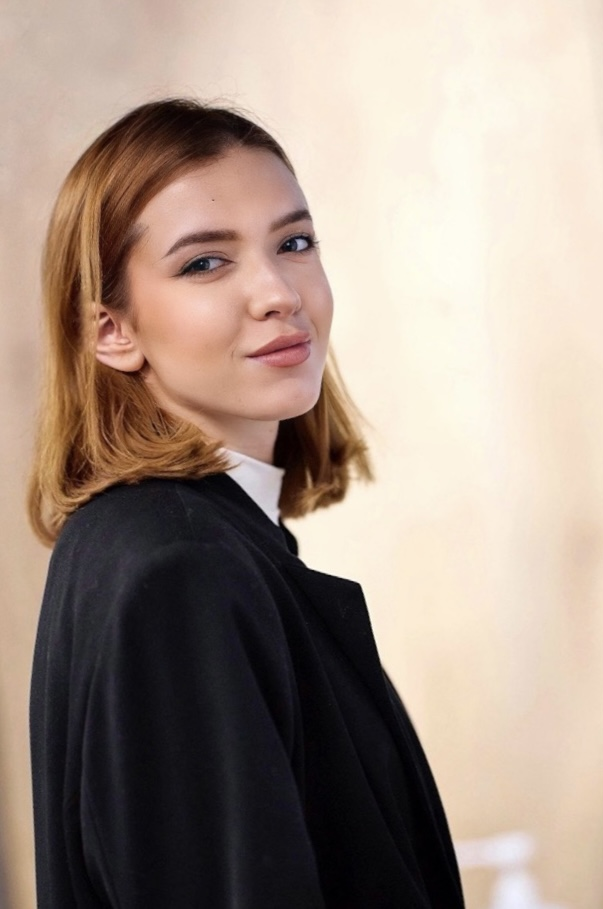
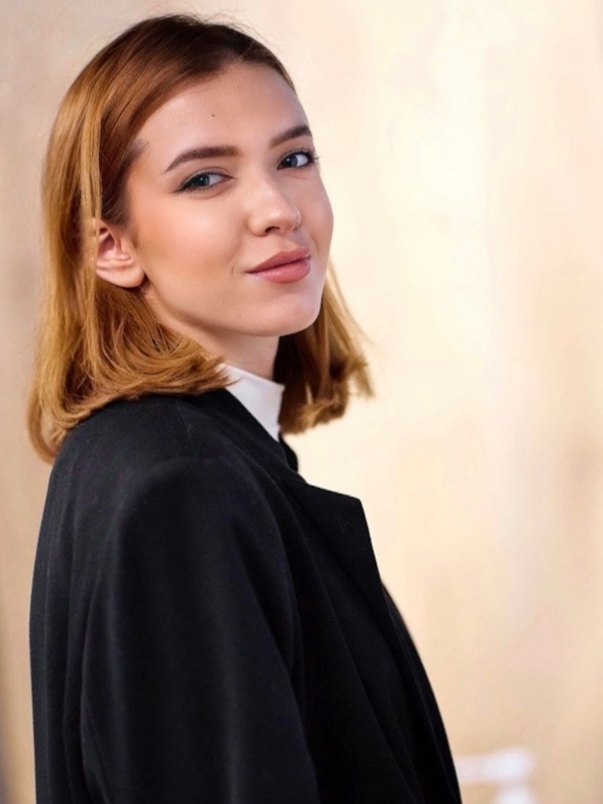
sadfdbgfredfsdgbfrfegf f

diff --git a/src/components/main/MainPage/Team/team.module.scss b/src/components/main/MainPage/Team/team.module.scss
@@ -52,9 +52,18 @@ $text-color: #0C0C0C;
 
         &__card {
             background-color: $card-bg-color;
-            padding: 24px;
+            padding: 24px 0;
             line-height: 150%;
-            flex: 0 0 32%;
+            flex: 0 0 31%;
+
+            &__container{
+                padding: 0 12px;
+                width: 85%;
+                margin: 0 auto;
+                display: flex;
+                justify-content: space-between;
+                align-items: flex-end;
+            }
 
             &__header {
                 display: flex;
@@ -70,6 +79,7 @@ $text-color: #0C0C0C;
                 &__speciality {
                     font-size: 0.8em;
                     text-align: right;
+                    width: 50%;
                 }
             }
 
@@ -81,17 +91,15 @@ $text-color: #0C0C0C;
                 justify-content: center;
 
                 &__photo {
+                    height: 350px;
+                    width: 100%;
                     display: flex;
                     justify-content: center;
                     align-items: center;
-                    height: 390px;
-                    width: 100%;
-
+                    
                     img {
-                        max-width: 75%;
-                        height: 90%;
-                        object-fit: cover;
-                        object-position: top center;
+                        max-width: 100%;
+                        height: 100%;
                     }
                 }
             }
@@ -112,6 +120,29 @@ $text-color: #0C0C0C;
     }
 }
 
+@media screen and (max-width: 1250.01px) {
+    .team {
+        &__carousel {
+            &__card {
+                &__header{
+                    &__name{
+                        font-size: 1em;
+                    }
+                    &__speciality {
+                        width: 100%;
+                    }
+                }
+                &__body {
+                    &__photo {
+                        height: 250px;
+                        width: 100%;
+                    }
+                }
+            }
+        }
+    }
+}
+
 @media screen and (max-width: 991.98px) {
     .team {
         margin-bottom: 100px;
@@ -126,7 +157,6 @@ $text-color: #0C0C0C;
             overflow-x: scroll;
 
             &__card {
-                flex: 0 0 32%;
 
                 &__header {
                     &__name {
@@ -136,6 +166,7 @@ $text-color: #0C0C0C;
 
                     &__speciality {
                         font-size: 0.7em;
+                        width: 50%;
                     }
                 }
 
@@ -143,11 +174,6 @@ $text-color: #0C0C0C;
                     &__photo {
                         height: 250px;
                         width: 100%;
-
-                        img {
-                            max-width: 75%;
-                            height: 90%;
-                        }
                     }
                 }
             }
@@ -159,7 +185,7 @@ $text-color: #0C0C0C;
     .team {
         &__carousel {
             &__card {
-                flex: 0 0 50%;
+                flex: 0 0 49%;
 
                 &__header {
                     &__speciality {
@@ -171,11 +197,6 @@ $text-color: #0C0C0C;
                     &__photo {
                         max-height: 200px;
                         width: 100%;
-
-                        img {
-                            max-width: 75%;
-                            height: 100%;
-                        }
                     }
                 }
             }
@@ -189,7 +210,11 @@ $text-color: #0C0C0C;
 
         &__carousel {
             &__card {
-                flex: 0 0 90%;
+                flex: 0 0 85%;
+
+                &__container{
+                    width: 75%;
+                }
 
                 &__header {
                     &__speciality {

diff --git a/src/components/main/MainPage/Team/index.jsx b/src/components/main/MainPage/Team/index.jsx
@@ -59,18 +59,22 @@ export default function Team() {
                             {membersData.map((member, index) => (
                                 <div key={index} ref={cardRef} className={styles.team__carousel__card}>
                                     <div className={styles.team__carousel__card__header}>
-                                        <div className={styles.team__carousel__card__header__name}>{member.name}</div>
-                                        <div className={styles.team__carousel__card__header__speciality}>
-                                            {member.speciality}
+                                        <div className={styles.team__carousel__card__container}>
+                                            <div className={styles.team__carousel__card__header__name}>{member.name}</div>
+                                            <div className={styles.team__carousel__card__header__speciality}>
+                                                {member.speciality}
+                                            </div>
                                         </div>
                                     </div>
                                     <div className={styles.team__carousel__card__body}>
-                                        <div className={styles.team__carousel__card__body__photo}>
-                                            {member.photo && <img src={member.photo} alt={member.name} draggable="false" />}
+                                            <div className={styles.team__carousel__card__body__photo}>
+                                                {member.photo && <img src={member.photo} alt={member.name} draggable="false" />}
                                         </div>
                                     </div>
                                     <div className={styles.team__carousel__card__footer}>
-                                        <Medias profileLink={member.contacts} />
+                                        <div className={styles.team__carousel__card__container}>
+                                            <Medias profileLink={member.contacts} />
+                                        </div>
                                     </div>
                                 </div>
                             ))}
